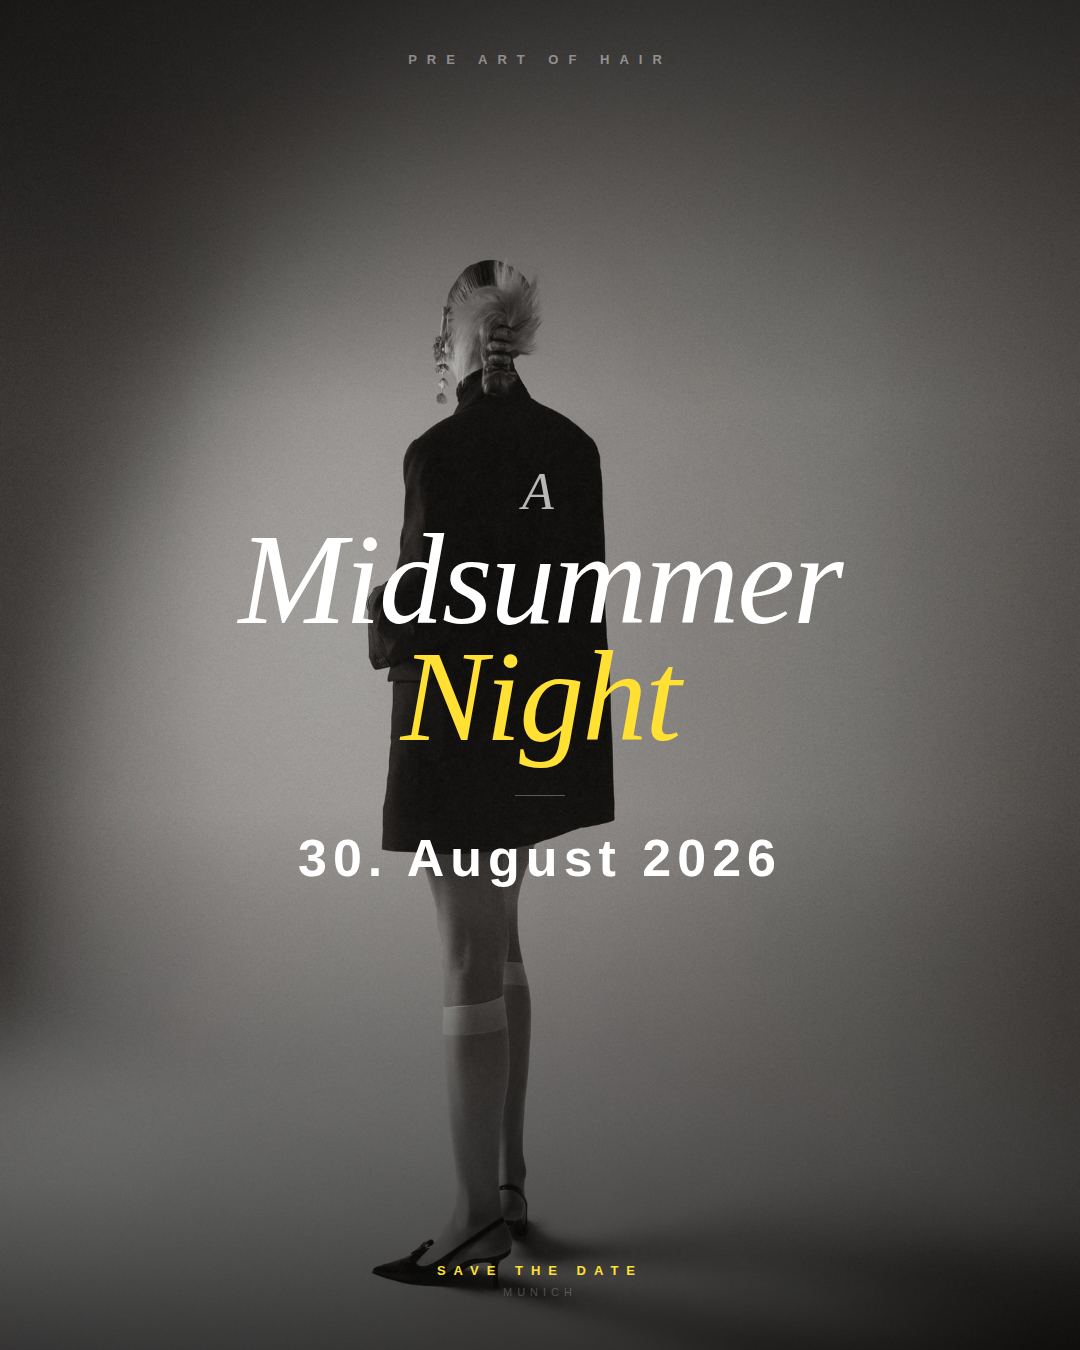
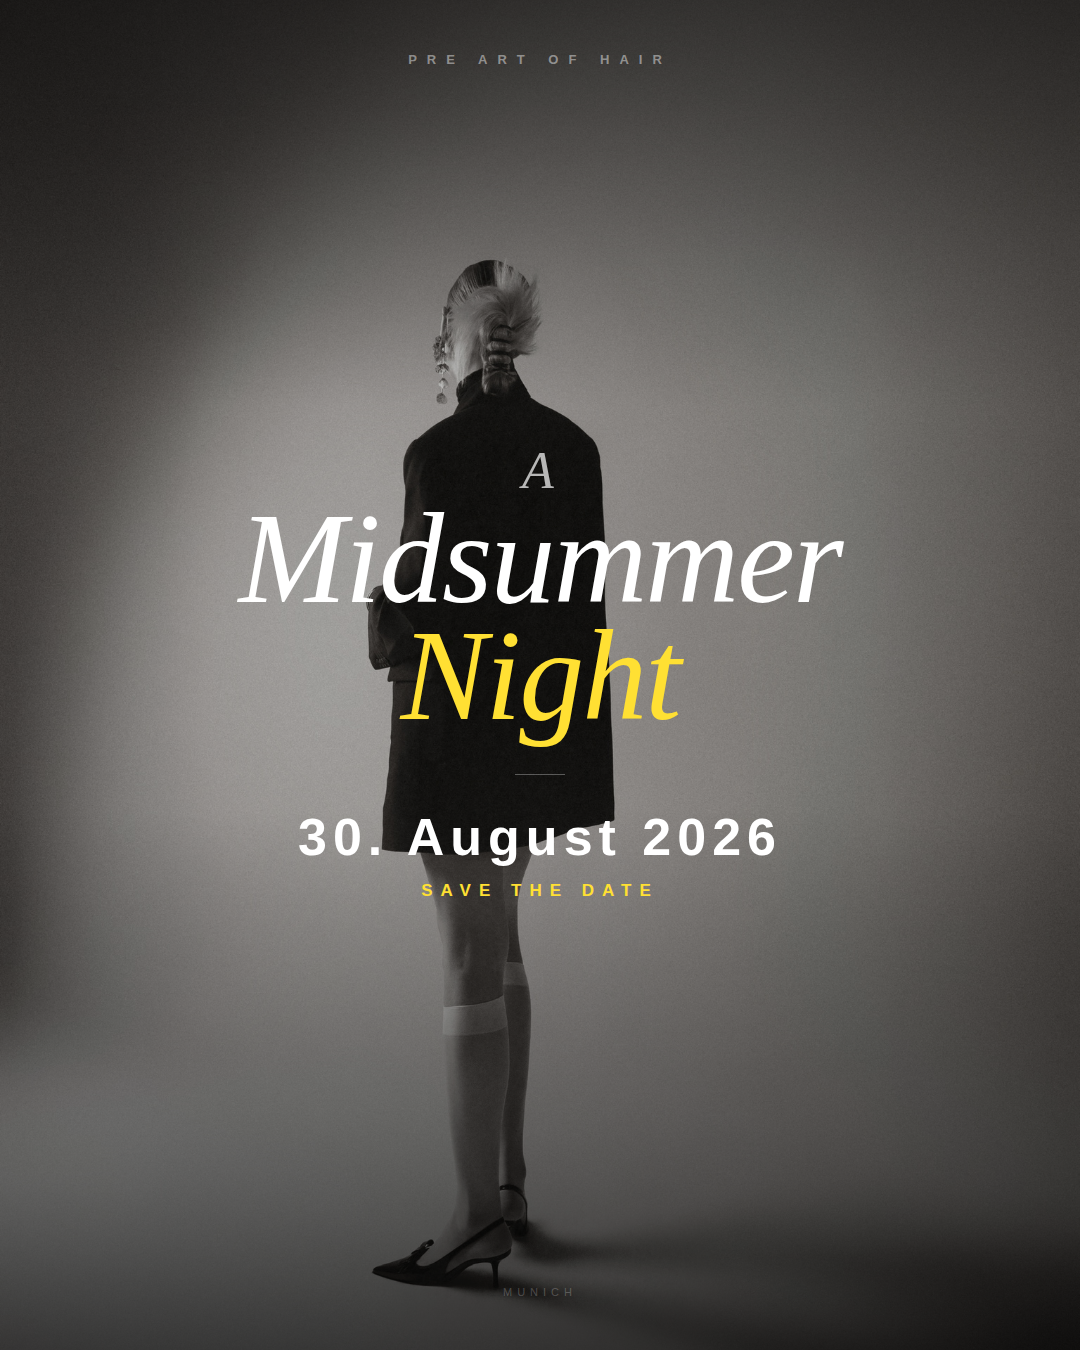
Move Save the Date closer to date, make it bigger
Claude-Session: https://claude.ai/code/session_01BaC8m9wAmbtKccXQSCmnYc

Changed region(s): [[0.2139, 0.3733, 0.7944, 0.6844], [0.275, 0.5911, 0.3361, 0.6533], [0.4889, 0.3422, 0.5194, 0.3733]]

diff --git a/save-the-date.html b/save-the-date.html
@@ -98,6 +98,7 @@
       font-size: 52px;
       letter-spacing: 6px;
       color: #ffffff;
+      margin-bottom: 14px;
     }
 
     /* Save the date unten */
@@ -109,8 +110,8 @@
     }
     .save {
       font-family: 'Barlow', sans-serif;
-      font-weight: 600;
-      font-size: 13px;
+      font-weight: 700;
+      font-size: 17px;
       letter-spacing: 8px;
       text-transform: uppercase;
       color: #FFE033;
@@ -140,10 +141,10 @@
       <div class="night">Night</div>
       <div class="rule"></div>
       <div class="date">30. August 2026</div>
+      <div class="save">Save the Date</div>
     </div>
 
     <div class="bottom">
-      <div class="save">Save the Date</div>
       <div class="city">Munich</div>
     </div>
   </div>
